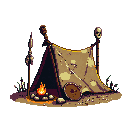
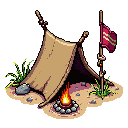
Fix raider camp red fringe, spread camps out, simplify Woadkin
Red halo around camp-woad/broken/sea: not a rendering bug — the source
PNGs' silhouette edges carried warm reddish-brown wood/totem color right
up against transparency, and R.blitBld's high-quality downscale (128px
master into a 32px tile, a steep 4x shrink) bilinear-blends that color
into the surrounding alpha, reading as a translucent red fringe worst at
the edges. camp-wolf/camp-flint barely showed it because their palette
doesn't touch the silhouette boundary the same way. Regenerated all
three with an explicit "every edge gets a dark ink outline before
transparency" constraint, which starves the blend of anything saturated
to bleed. (A same-session attempt at 256px master art — matching other
buildings' convention, which would have independently helped by halving
the downscale ratio — turned out to reliably fail PixelLab's background
removal at that size, 6/6 opaque-backdrop failures; reverted to the
128px size that's produced clean alpha every time.)

Woadkin redesign: was reading as a full circular stockade ("a mini
colosseum"), which drifted from the original brief during iteration.
Back to basics — a short low run of stakes, the fire, the shared skull
totem — no ring, no enclosure.

Camp placement (js/map.js): the generator only ever checked a candidate
site's distance from the two TOWNS, never from other camps, so three
bands could (and did) land within sight of each other. Camps now also
keep clear of one another by the same distance a tier already enforces
[…]

diff --git a/js/map.js b/js/map.js
@@ -369,12 +369,31 @@ const MapGen = {
       }
       return true;
     };
-    for (const [clear, openNeed] of [[wantClear, 2], [wantClear - 4, 2], [14, 1], [10, 0]]) {
+    /* THE WILDS DO NOT GANG UP. Nothing above stopped two camps landing side
+       by side — only distance from the TOWNS was checked — so a bad roll
+       could (and did) seat three bands within sight of each other, reading
+       as barbarians allied with each other rather than hostile to
+       everybody. A camp's own tenders already hold ground out to chaseR
+       (RAIDER_CAMPS.chaseR — see "a camp stands in the WILD COUNTRY" above),
+       so two camps need AT LEAST that same clearance between them to keep
+       their yards from overlapping — reusing the tier's own town-clearance
+       number rather than a second hand-picked one, and relaxing in step
+       with it so a crowded map still seats every camp. */
+    const campsFar = (x, y, clear) => camps.every(c => Math.hypot(x - c.x, y - c.y) > clear);
+    /* AND THE WILDS PRESS ON BOTH TRIBES EQUALLY. Alternate which seat each
+       new camp must fall nearer to (by straight-line distance — the two
+       seats sit on opposite ground, so "nearer to" reads as "that side of
+       the board"), so the wild country is never lopsided onto one player's
+       doorstep. Dropped in the loosest tiers, same as yardOpen's demand —
+       seating every camp still outranks a perfectly even split. */
+    for (const [clear, openNeed, enforceSide] of [[wantClear, 2, true], [wantClear - 4, 2, true], [14, 1, false], [10, 0, false]]) {
       let guard = 0;
       while (camps.length < wantCamps && guard++ < 600) {
         const x = 3 + rnd() * (W - 6) | 0, y = 3 + rnd() * (H - 6) | 0;
         const dP = Math.hypot(x - player.x, y - player.y), dA = Math.hypot(x - ai.x, y - ai.y);
-        if (dP > clear && dA > clear && t[id(x, y)] === T.GRASS && yardOpen(x, y, openNeed)) {
+        const sideOk = !enforceSide || ((camps.length % 2 === 0) ? dP <= dA : dP > dA);
+        if (dP > clear && dA > clear && sideOk && t[id(x, y)] === T.GRASS &&
+            yardOpen(x, y, openNeed) && campsFar(x, y, clear)) {
           t[id(x, y)] = T.CAMP; camps.push({ x, y });
         }
       }
